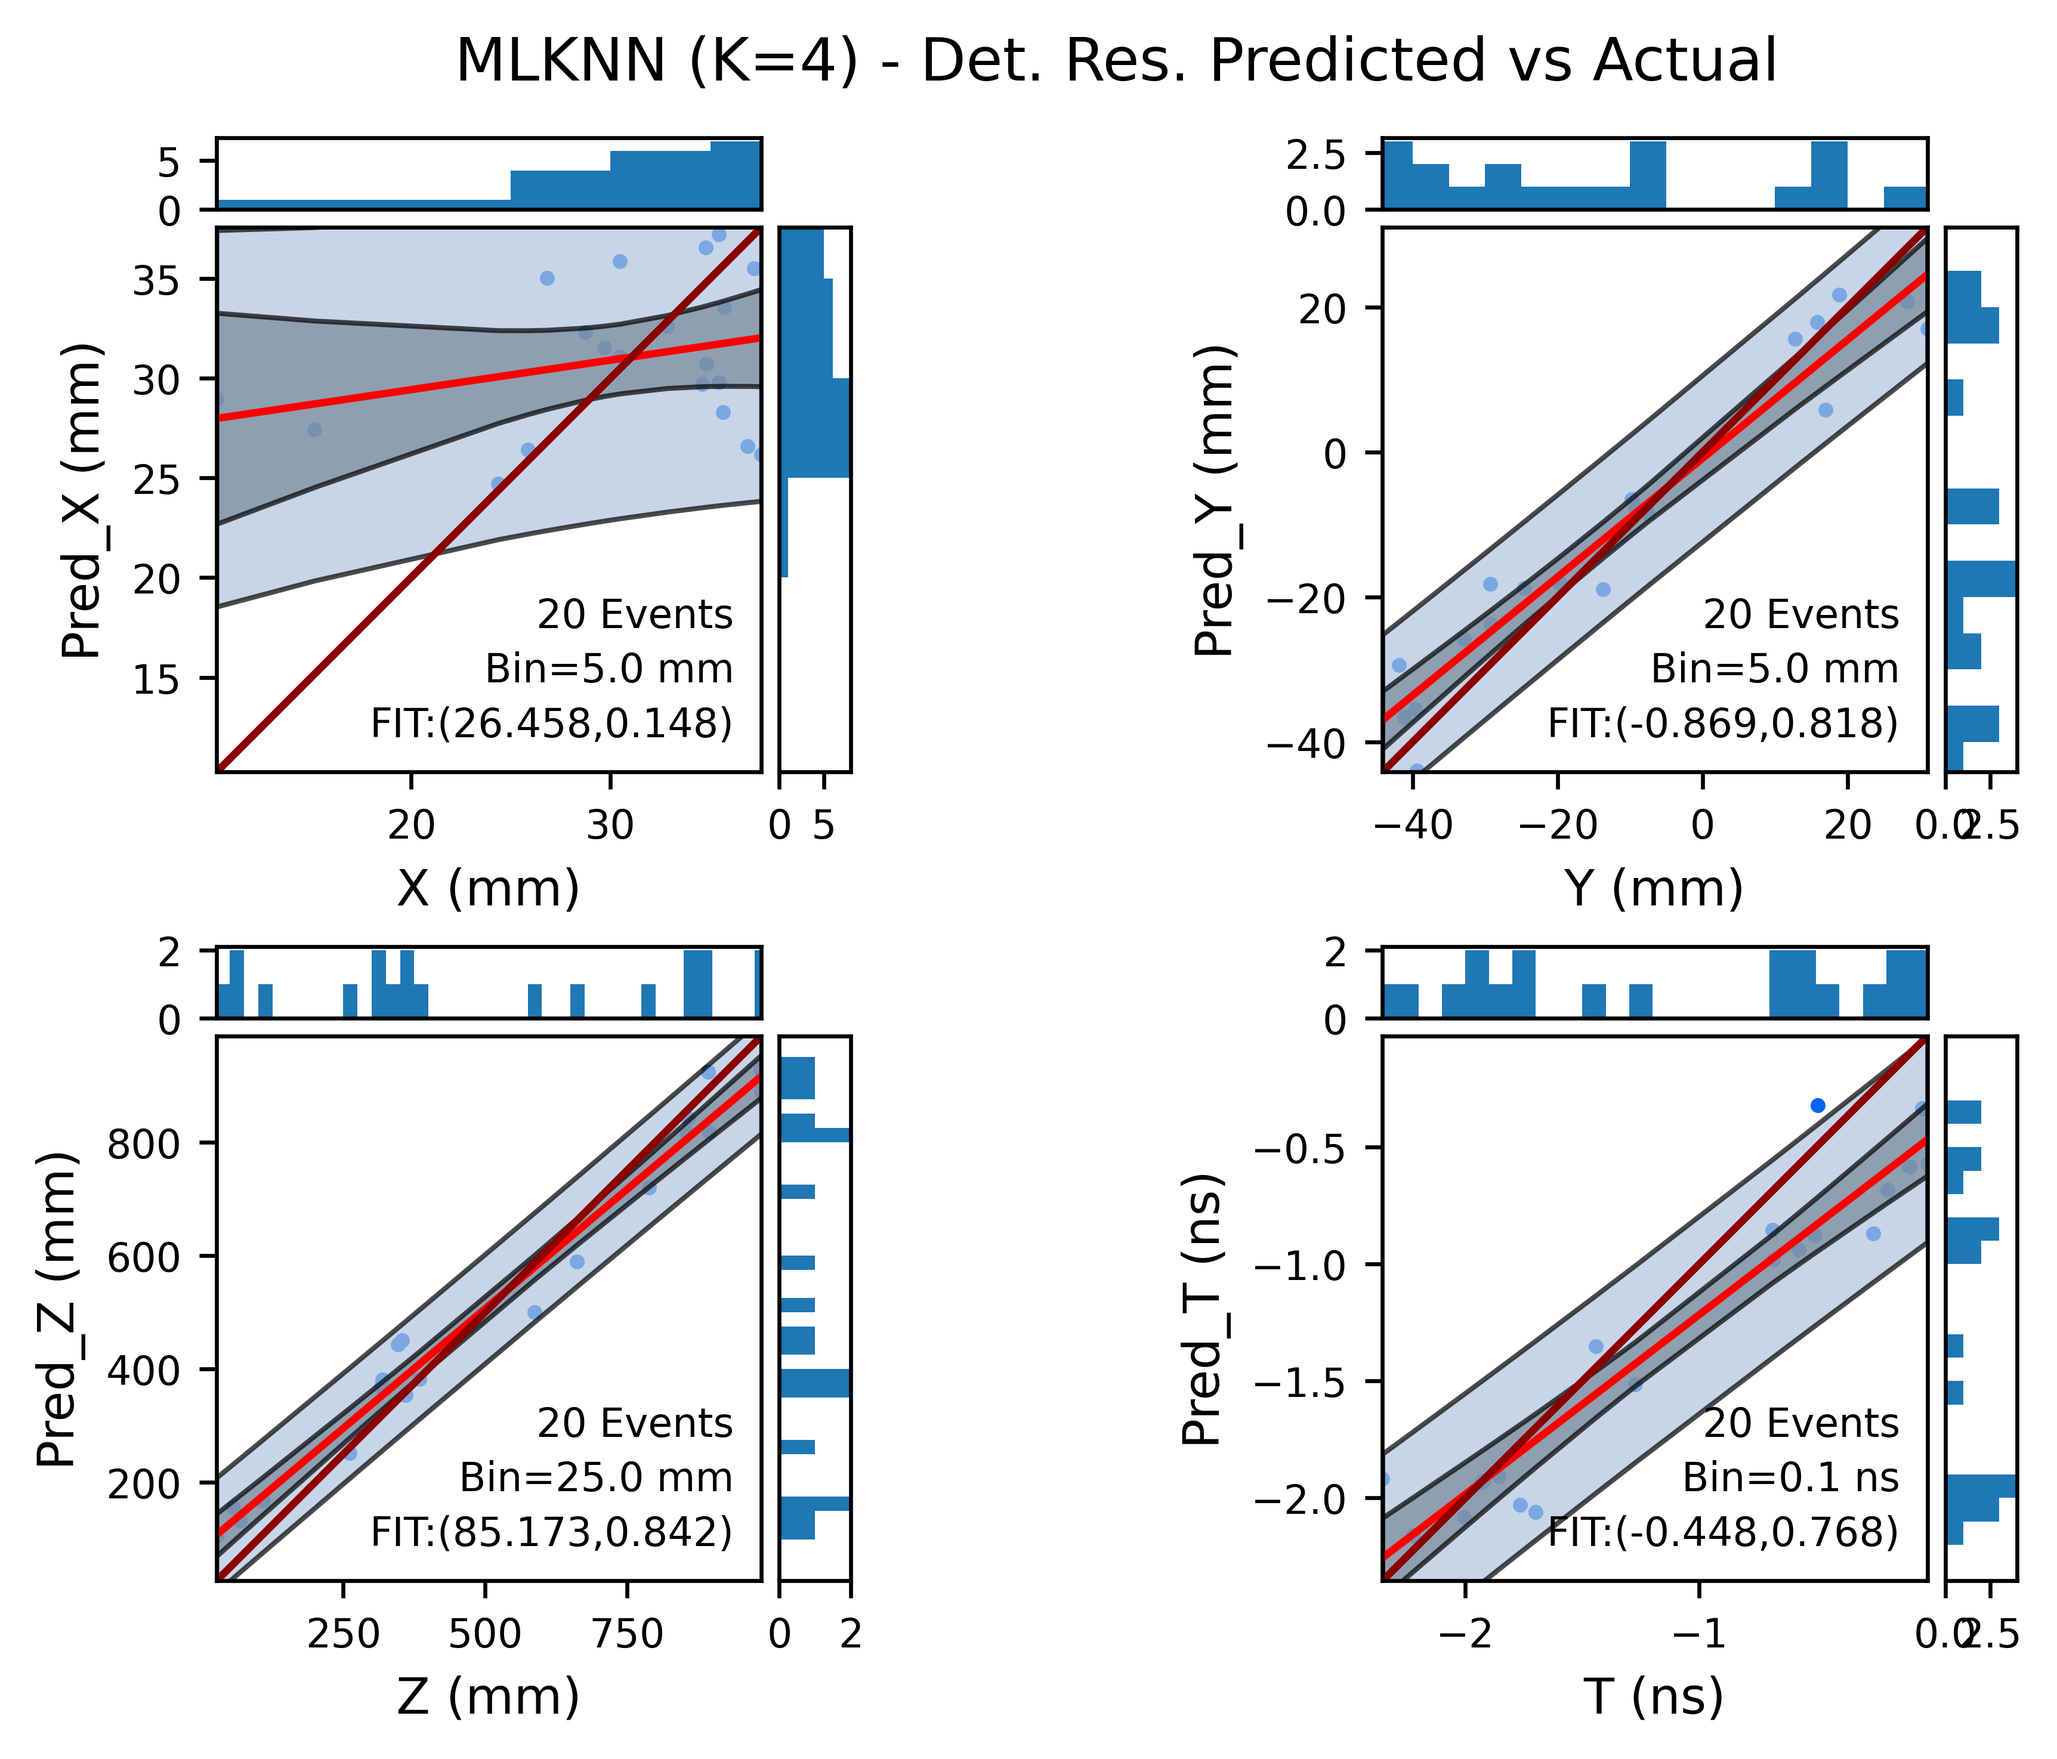
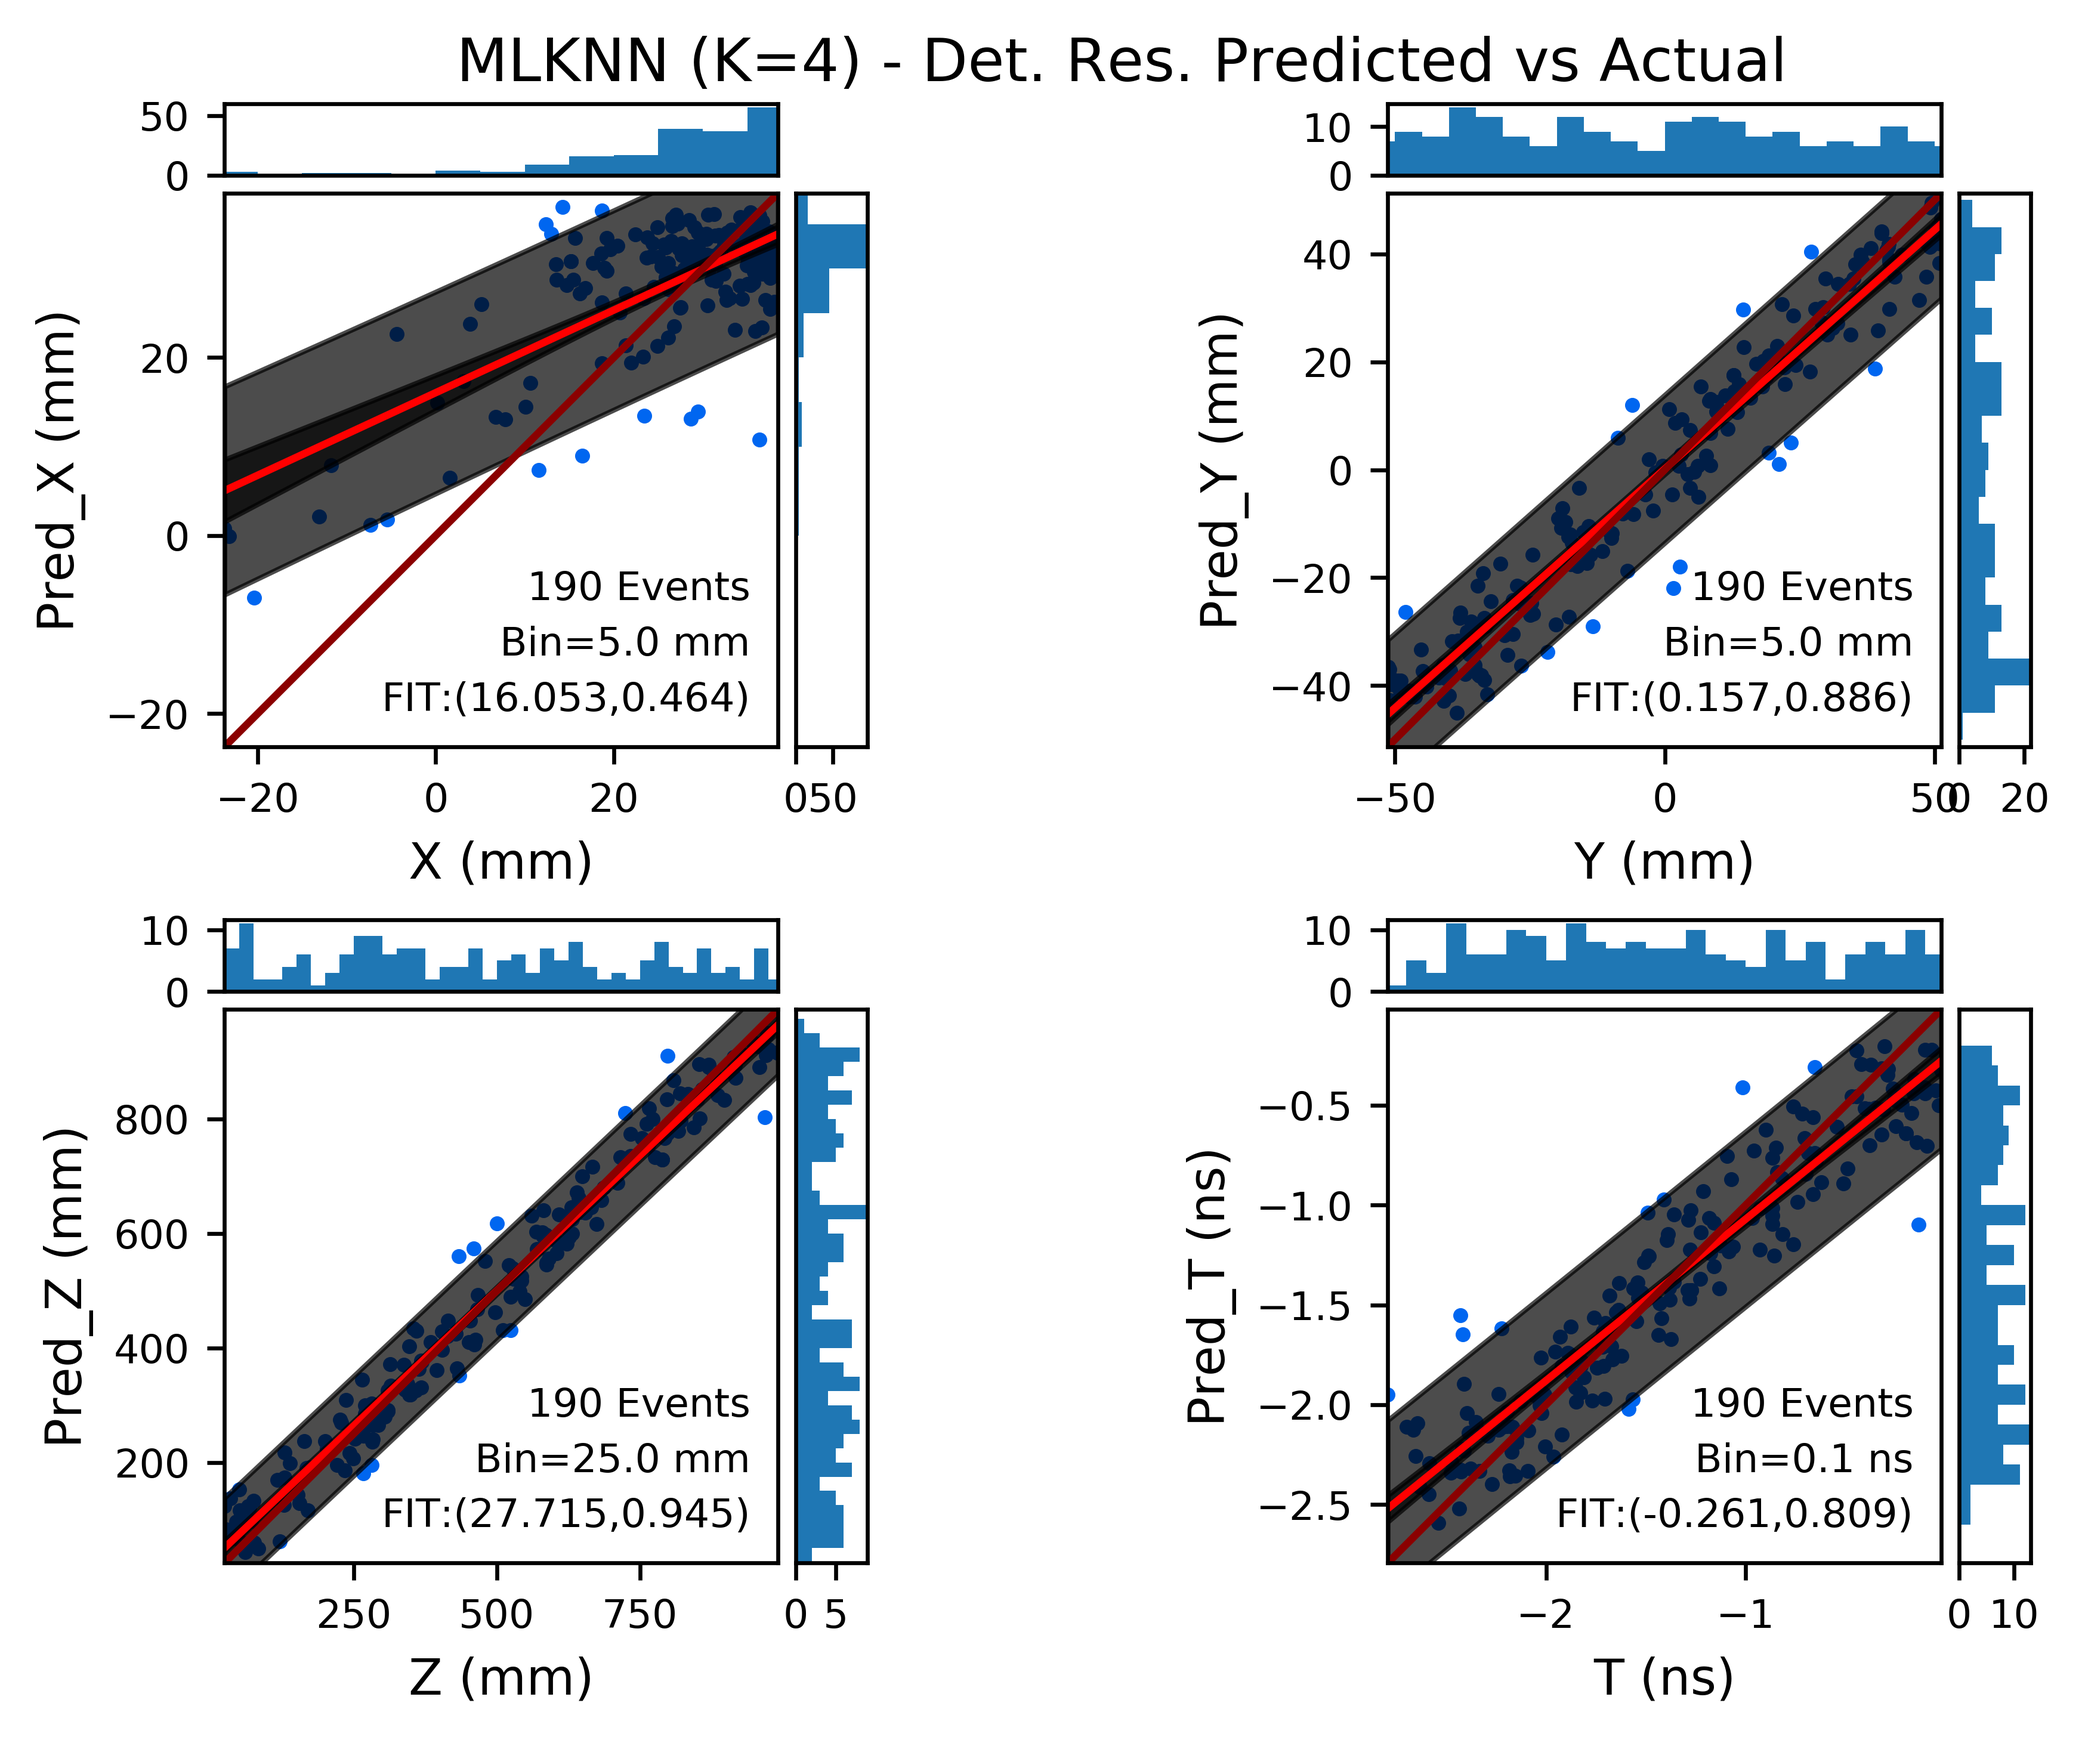
stash

Changed region(s): [[0.0, 0.0, 0.993, 0.9983], [0.1552, 0.9047, 0.1862, 0.9359]]

diff --git a/analyze.py b/analyze.py
@@ -5,7 +5,7 @@ import os
 import io
 os.environ['MPLCONFIGDIR'] = "/home/Desktop/mplib/graph"
 import matplotlib
-#matplotlib.use('AGG')
+matplotlib.use('AGG')
 ##matplotlib.use('Qt5Agg')
 import matplotlib.pyplot as plt
 import matplotlib.colors as mpt_col
@@ -31,13 +31,13 @@ cpus = multiprocessing.cpu_count()
 print("CPU Count:",cpus)
 if(cpus>16):
 	num_cores = 48 #48
-	MaxEventLimit = False
+	MaxEventLimit = True
 else:
 	num_cores = cpus
 	MaxEventLimit = True
 #------------------------------------------------------------------------------------
 #MaxEventLimit = True #manual override
-MaxEvents = 80#int(input("Number of Events:"))
+MaxEvents = 800#int(input("Number of Events:"))
 #--------------------------
 #Defining Flags:
 STRIPHIST = False
@@ -61,7 +61,7 @@ DRES_Train = True #Train or Test/VIS?
 warmstart=True # warmstart the CNN
 #---KNN
 KNN = True #using KNN OR CNN ? 
-MLOPT = ["PCA"] #options "PCA"
+MLOPT = [] #options "PCA"
 KVIS = "RUNONE" #options "RUN" "OPTNUM" "ERR" "VIS" #nearest neighbor output visualization?
 knn_neighbors = 4 #set value
 #---------------
